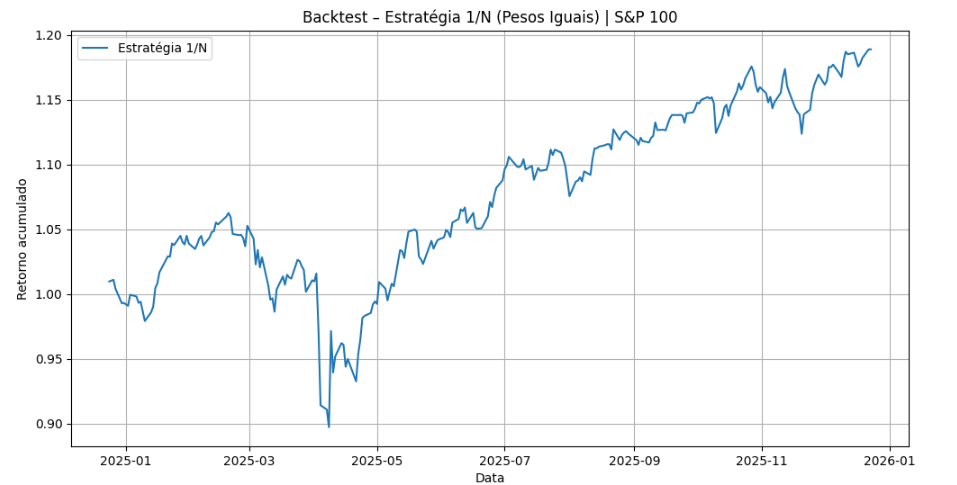
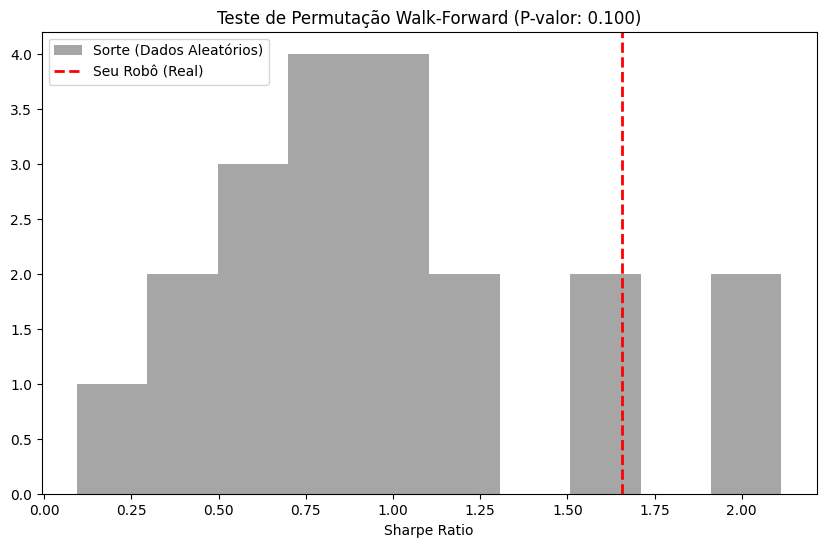
Add: fixing some text and structure issues

diff --git a/content/01-finquant/2025-anterior/datathon-4.md b/content/01-finquant/2025-anterior/datathon-4.md
@@ -1,0 +1,99 @@
+---
+title: Previsibilidade do Prêmio de Risco em Criptomoedas com Indicadores Técnicos
+tags:
+  - nivel/avancado
+  - trilha/finquant
+---
+_**Autores:** Guilherme Vinicius Afonso Dias de Freitas · Gustavo Yamachi · Matias Lima_
+
+_**Orientador:** Leandro dos Santos Maciel_
+
+<div style="text-align: center;">
+
+  <img src="Pasted image 20260322094834.png" width="100">
+
+</div>
+
+# 1. Overview
+
+
+### **Objetivo:**
+
+- Avaliar a previsibilidade do **prêmio pelo risco de criptomoedas** utilizando indicadores técnicos e relacionar essa previsibilidade com os **níveis de sentimento de mercado**.
+    
+
+---
+
+### **Questões de pesquisa:**
+
+- Indicadores técnicos têm capacidade de prever o prêmio pelo risco de criptomoedas?
+    
+- O sentimento de mercado influencia na previsibilidade do prêmio de risco?
+    
+- Índices de sentimento mais robustos capturam melhor essa potencial relação preditiva?
+    
+
+### **Metodologia:**
+
+- Dados do **Bitcoin** e construção de **regressões bi-variadas** da literatura de _equity risk premium_;
+    
+- **Indicadores técnicos** de médias móveis, momentum e volume como regressores;
+    
+- Construção de **índice de sentimento** com **PCA** e raspagem de dados (_web scraping_);
+    
+- Desmembramento da capacidade preditiva de acordo com níveis de sentimento.
+    
+
+### **Inovação:**
+
+- Mensuração da previsibilidade do prêmio pelo risco em criptos com indicadores técnicos;
+    
+- Criação de um novo índice de sentimento para criptomoedas — **SenticCrypto**;
+    
+- Qualificação da qualidade das previsões para distintos níveis de sentimento.
+    
+
+---
+
+# 2. Fundamentação teórica
+
+O  Prêmio  pelo  Risco  de  um  ativo  é  o  seu retorno esperado ajustado ao risco (em excesso à taxa livre de risco). Previsão mais acurada do prêmio pelo risco é importante para:
+
+- Precificação de ativos/derivativos; Alocações mais eficientes de portfólios;
+
+- Avaliação de performance da gestão em mercados financeiros.
+
+- A  literatura  apresenta  modelos  de  regressão com Indicadores técnicos e variáveis fundamentais (WELCH & GOYAL, 2008) para previsão do prêmio pelo risco.
+
+<div align="center">
+<svg width="500" height="300" viewBox="0 0 500 300" xmlns="http://www.w3.org/2000/svg">
+  
+  <style>
+    .title { font-family: sans-serif; font-size: 24px; font-style: italic; fill: currentColor; }
+    .list { font-family: sans-serif; font-size: 16px; font-style: italic; fill: currentColor; }
+    .label { font-family: sans-serif; font-size: 14px; fill: currentColor; }
+    .line { stroke: currentColor; stroke-width: 2; fill: none; }
+    .box { fill: transparent; stroke: currentColor; stroke-width: 2; }
+  </style>
+
+  <rect x="150" y="20" width="200" height="50" class="box" />
+  <text x="250" y="55" text-anchor="middle" class="title">Risk premium</text>
+
+  <path d="M250 70 L160 90 M250 70 L340 90" class="line" />
+
+  <rect x="50" y="90" width="180" height="150" class="box" />
+  <text x="70" y="130" class="list">Médias móveis</text>
+  <text x="70" y="170" class="list">Momentum</text>
+  <text x="70" y="210" class="list">Volatilidade</text>
+  <text x="140" y="265" text-anchor="middle" class="label">Ind. Técnicos</text>
+
+  <rect x="270" y="90" width="180" height="150" class="box" />
+  <text x="290" y="120" class="list">Dividend yield</text>
+  <text x="290" y="155" class="list">P/E ratio</text>
+  <text x="290" y="190" class="list">Inflação Taxas</text>
+  <text x="290" y="225" class="list">de juros</text>
+  <text x="360" y="265" text-anchor="middle" class="label">Ind. Fundamentalistas</text>
+
+</svg>
+</div>
+

diff --git a/content/01-finquant/2026-s1/estrategia-argos.md b/content/01-finquant/2026-s1/estrategia-argos.md
@@ -4,51 +4,44 @@ tags:
   - nivel/avancado
   - trilha/finquant
 ---
-_**Autores**: Lorenzo Cavalcante, Gabriel Navarro, Rodrigo Catto Menin_ 
+_**Autores**: Lorenzo Cavalcante · Gabriel Navarro · Rodrigo Catto Menin_ 
 
-_**Repositório**: [link](https://github.com/Quant-IA-2025/main)
-
-1. **Design Robô A.R.G.O.S.**
-
-                                 A.R.G.O.S.
+_**Repositório**: [link](https://github.com/Quant-IA-2025/main)_
+# A.R.G.O.S
 
 ![[robo-argos.jpg| center | 151]]
+## Explicação do Nome: 
 
->[!info]
->**Figura 1**: Logo-argos.jpg
+A.R.G.O.S. é um acrônimo para **Algoritmo de Reconhecimento Gráfico de Otimização de Sinais.** O nome é uma referência direta a **Argos Panoptes**, o gigante primordial da mitologia grega conhecido como "aquele que tudo vê", um ser com cem olhos que lhe permitia uma vigilância constante. Esta alegoria captura a essência da nossa estratégia. **O Reconhecimento Gráfico** refere-se à forma como reinventamos a análise técnica, permitindo que nossa abordagem de transfer learning “veja o mercado com seus cem olhos” ao analisar imagens gráficas (GAFs) dos preços, extraindo features aprendidas por backbones visuais pré-treinados e detectando padrões invisíveis à análise estatística convencional. A **Otimização de Sinais** descreve como essa “visão”, isto é, as representações extraídas via transfer learning, é tratada como um sinal, subsequentemente otimizado e ponderado contra o equilíbrio de mercado pelo modelo Black–Litterman para compor a alocação final. 
+## Explicação da Lógica da Estratégia:
 
-2. Nome do Robô 
+A lógica do A.R.G.O.S. é uma fusão híbrida de aplicações inovadoras de deep learning e metódos clássicos robustos de teoria de portfólio. Primeiro, o robô "vê"o mercado transformando os dados de preços de 1 trimestre de cada ação em uma imagem de 2 canais (GASF/GADF), então, uma Rede Neural Convolucional (CNN), usando Transfer Learning, analisa essa imagem e a classifica imagem de acordo com a possibilidade do retorno futuros estar entre certos intervalos pré-definidos e fixos. Essa previsão não é um sinal direto de "compra", mas sim uma "visão"subjetiva. Em seguida, essa "visão"(o retorno esperado Q) e, crucialmente, a "confiança"da CNN nessa visão (Ω) são inseridas no modelo Black-Litterman. O modelo Black-Litterman combina otimamente a visão da nossa IA com o "equilíbrio"do mercado (o retorno neutro Π) e também a matriz de covariância (Σ) resolvendo o clássico problema de instabilidade dos modelos de otimização. O resultado é um portfólio robusto que pondera a previsão da IA pela sua própria confiança, gerando uma alocação de ativos confiável de forma inovadora, tal inovação evita efeitos de crowding no mercado 
 
+## Classe de Ativos:
 
-                                 A.R.G.O.S. 
+Ativos de Renda Variável (Ações) 
 
-3. Explicação do Nome: A.R.G.O.S. é um acrônimo para **Algoritmo de Reconhecimento Gráfico de Otimização de Sinais.** O nome é uma referência direta a **Argos Panoptes**, o gigante primordial da mitologia grega conhecido como "aquele que tudo vê"[2, 3], um ser com cem olhos que lhe permitia uma vigilância constante.[2, 3] Esta alegoria captura a essência da nossa estratégia. **O Reconhecimento Gráfico** refere-se à forma como reinventamos a análise técnica, permitindo que nossa abordagem de transfer learning “veja o mercado com seus cem olhos” ao analisar imagens gráficas (GAFs) dos preços, extraindo features aprendidas por backbones visuais pré-treinados e detectando padrões invisíveis à análise estatística convencional. A **Otimização de Sinais** descreve como essa “visão”, isto é, as representações extraídas via transfer learning, é tratada como um sinal, subsequentemente otimizado e ponderado contra o equilíbrio de mercado pelo modelo Black–Litterman para compor a alocação final. 
+## Universo de Investimento: 
 
-4. Explicação da Lógica da Estratégia: A lógica do A.R.G.O.S. é uma fusão híbrida de aplicações inovadoras de deep learning e metódos clássicos robustos de teoria de portfólio. Primeiro, o robô "vê"o mercado transformando os dados de preços de 1 trimestre de cada ação em uma imagem de 2 canais (GASF/GADF), então, uma Rede Neural Convolucional (CNN), usando Transfer Learning, analisa essa imagem e a classifica imagem de acordo com a possibilidade do retorno futuros estar entre certos intervalos pré-definidos e fixos. Essa previsão não é um sinal direto de "compra", mas sim uma "visão"subjetiva. Em seguida, essa "visão"(o retorno esperado Q) e, crucialmente, a "confiança"da CNN nessa visão (Ω) são inseridas no modelo Black-Litterman. O modelo Black-Litterman combina otimamente a visão da nossa IA com o "equilíbrio"do mercado (o retorno neutro Π) e também a matriz de covariância (Σ) resolvendo o clássico problema de instabilidade dos modelos de otimização. O resultado é um portfólio robusto que pondera a previsão da IA pela sua própria confiança, gerando uma alocação de ativos confiável de forma inovadora, tal inovação evita efeitos de crowding no mercado 
+S&P100 
 
-5. Classe de Ativos Ativos de Renda Variável (Ações) 
+## Frequência da Estratégia:
 
-6. Universo de Investimento S&P100 
+Trimestral (Rebalanceamento e previsão a cada 63 dias úteis) 
 
-7. Frequência da Estratégia Trimestral (Rebalanceamento e previsão a cada 63 dias úteis) 
+## Benchmark:
 
-8. Benchmark Índice S&P100 (SP100)
+Índice S&P100 (SP100)
 
+##  Tese de Investimento (O Porquê) e Universo de Ativos (Onde): 
 
-# 2. Página Factsheet 
-### 1. Identidade do Robô 
-	• Nome: A.R.G.O.S. 
-	• Slogan: "Vendo padrões além do alcance." 
-#### 2 e 3. Tese de Investimento (O Porquê) e Universo de Ativos (Onde) 
-	*Padrões de mercado complexos são invisíveis à análise estatística tradicional. Ao converter preços em imagens, podemos usar Redes Neurais Convolucionais (CNNs) para "ver"e explorar dinâmicas dos retornos do S&P100, nosso universo de ativos.*
+Padrões de mercado complexos são invisíveis à análise estatística tradicional. Ao converter preços em imagens, podemos usar Redes Neurais Convolucionais (CNNs) para "ver"e explorar dinâmicas dos retornos do S&P100, nosso universo de ativos.
 
-#### 4. Fluxograma da Lógica (O Como)
+## Fluxograma da Lógica (O Como):
+
 ![[fluxograma-argos.png]]
 
->[!info]
->**Figura 2:** Fluxograma da lógica
-
-# 3. Desenvolvimento do Trabalho
+# Desenvolvimento do Trabalho
 ### A) Ideia de Investimento 
 Nossa ideia foi, em suma, combinar visão computacional com teoria de portfólios. Para tal, fizemos com que uma CNN pre-treináda via transfer learning extraisse padrões das imagens GAF e produzisse visões de mercado (Q); Além disso, fizemos com que o Black–Litterman transformasse essas visões em alocações robustas e bem calibradas ao risco. Intuitivamente, a CNN gera o alpha ao "ver"padrões nas imagens GAF para gerar "visões"de mercado (Q). Enquanto o Black-Litterman constrói o portfólio, usando a teoria de portfólio para alocação robusta e gerenciamento de risco. 
 
@@ -60,12 +53,16 @@ Essa arquitetura resolve os dois problemas: a CNN fornece o alpha e o BL fornece
 
 ### B) Regra de Investimento 
 A estratégia é sistematizada em um pipeline de cinco módulos, executado trimestralmente (horizonte de 63 dias). 
+
 1. **Codificação em Imagem** 
 	Para cada ativo do S&P100, em cada data de rebalanceamento $(τ ),$ o script analisa a janela anterior de 63 dias (w = 63). O processo de transformação converte esta série temporal em uma imagem de 2 canais (GAF) da seguinte forma: 
+	
 	1. **Normalização e Coordenadas Polares:** A série temporal é primeiro normalizada (para valores entre -1 e 1). Em seguida, ela é representada em um sistema de coordenadas polares. O valor de cada ponto $i$ na série $(x˜i)$ é codificado como o cosseno de um ângulo $(ϕi = arccos(x˜i))$, e o carimbo de tempo ti é codificado como o raio. Esta representação preserva as relações temporais absolutas. 
+
 	2. **Cálculo das Matrizes Gramian:** Dai, o algoritmo explora a correlação temporal entre cada ponto i e cada ponto j da série, gerando duas matrizes (imagens): 
 		• **Canal 1: GASF (Gramian Angular Summation Field):** Esta é uma matriz onde cada elemento $(i, j)$ representa a correlação temporal através da soma trigonométrica. Ela é calculada como o cosseno da soma dos ângulos: GASFi,j = $cos(ϕi +ϕj )$. A matriz resultante captura a superposição de direções ao longo do tempo. 
 		• **Canal 2: GADF (Gramian Angular Difference Field):** De forma complementar, esta matriz captura correlações usando a diferença trigonométrica dos ângulos: GADFi,j = $sin(ϕi − ϕj )$. 
+		
 	Estes dois canais (GASF e GADF) são então empilhados para formar uma única imagem de 2 canais. Esta imagem unificada captura diferentes aspectos das correlações temporais e dinâmicas da série de preços, pronta para ser processada pela CNN. Tivemos o cuidado também de checar a ortogonalidade dos dois métodos. 
 	
 2. **Previsão via CNN** 
@@ -77,8 +74,8 @@ A estratégia é sistematizada em um pipeline de cinco módulos, executado trime
 > **Figura 3**: Arquitetura CNN
 
 
-**Figura 3:** Exemplo de uma codificação em imagem.
-	e realizamos um ***fine-tuning*** nela para a tarefa específica de classificar nossas imagens **GAF**. Esta abordagem é mais rápida e captura features visuais complexas de forma mais eficaz. 
+**Figura 3:** 
+Exemplo de uma codificação em imagem. Realizamos um ***fine-tuning*** nela para a tarefa específica de classificar nossas imagens **GAF**. Esta abordagem é mais rápida e captura features visuais complexas de forma mais eficaz. 
 	• **Tarefa:** A CNN *não* prevê um preço. Ela realiza uma classificação multiclasse. 
 	• **Saída:** Um vetor de probabilidade $pˆ$ de 5 dimensões, correspondendo aos 5 *bins* fixos de retorno futuro (63 dias): [<-5%], [-5%, -1%], [-1%, 1%], [1%, 5%], [>=5%]. 
 	• **Métrica de Treino:** A rede é **ajustada (fine-tuned)** usando Categorical Cross-Entropy, otimizando para a precisão da distribuição de probabilidade.
@@ -115,6 +112,7 @@ $$\max_{w} \quad w^{T} \hat{\mu}_{BL,\tau} - \frac{\gamma}{2} w^{T} \Sigma_{\tau
  A pesquisa de Wang e Oates foi a mais importante para nós, pois demonstrou que a codificação de séries temporais em Gramian Angular Fields (GAF) cria representações de imagem que (a) preservam a dependência temporal e (b) podem ser consumidas eficazmente por Redes Neurais Convolucionais para classificação. Isso nos permitiu reformular o problema de previsão de séries temporais como um problema de visão computacional com fundamentos bem robustos. 
  
 ### D) Universo de Dados
+ 
  **• Universo Investível:** Ações do S&P 100. 
  **• Fonte dos Dados:** Yahoo Finance, dados diários. 
  **• Período de Análise:** Dados de 2010-2025, com preços diários das ações do S&P100 no período, separados com proporções 70/30. 
@@ -246,9 +244,11 @@ A estratégia provou não ser apenas um exercício acadêmico; ela foi projetada
 **Design:** Criação da identidade visual do robô (A.R.G.O.S.) e desenvolvimento do acrônimo e (usando ChatGPT). 
 
 ### 3. Limitações ou Erros 
-• Como cada membro estava usando uma IA diferente, acabamos tendo problemas de compatibilidade dos arquivos .py dentro do pipeline, o que teve que ser resolvido manualmente; 
-• O texto gerado por IA é bastante genérico e repetitivo, falhando em transmitir as informações de forma concisa e coesa; 
-• Ao encontrar problemas de ausência de dados, a IA criava dados falsos para suprir sua necessidade, o mesmo ocorreu na pesquisa de artigos, quando nos deparamos com artigos que não existiam. 
 
+• Como cada membro estava usando uma IA diferente, acabamos tendo problemas de compatibilidade dos arquivos .py dentro do pipeline, o que teve que ser resolvido manualmente; 
+
+• O texto gerado por IA é bastante genérico e repetitivo, falhando em transmitir as informações de forma concisa e coesa; 
+
+• Ao encontrar problemas de ausência de dados, a IA criava dados falsos para suprir sua necessidade, o mesmo ocorreu na pesquisa de artigos, quando nos deparamos com artigos que não existiam. 
 ### 4. Reflexão Final 
 A IA generativa não pode e não deve ser utilizada como resolução "caixa-preta"para todos os problemas, todas as vezes que tentamos usá-la desse modo acabamos caindo no erro. No fim, ela não passa de um ajudante bastante prestativo e perspicaz, mas é essencial que a parte crítica e criativa humana esteja em dia para que o uso da IA seja proveitoso.

diff --git a/content/01-finquant/2025-s1/deep-markovian-trader.md b/content/01-finquant/2025-s1/deep-markovian-trader.md
@@ -4,30 +4,31 @@ tags:
   - nivel/avancado
   - trilha/finquant
 ---
-# 0. Introdução
+_**Autores:** Gabriel Navarro · Julia Cerqueira · Lorenzo Cavalcante_
 
+# Deep Markovian Trader
 
-![[deep-markovian-logo.png]]
+![[deep-markovian-logo-removebg-preview.png]]
 
-## 0.1 Explicação do Nome
+## Explicação do Nome
 
 “Deep Markovian Trader” faz referência aos elementos principais da estratégia: “Deep” refere-se ao uso de Deep Learning, “Markovian” à modelagem por cadeias de Markov, e “Trader” à natureza da estratégia, focada em operações de Long & Short.
 
-## 0.2 Explicação Lógica Estratégia
+## Explicação Lógica Estratégia
 
 A estratégia avalia, para cada período e para cada ação do S&P500, a volatilidade condicional das ações, utilizando um modelo inspirado no MSGARCH. Com base nessa métrica, seleciona-se, a cada ciclo, as 50 ações com as menores volatilidades condicionais. Em seguida, um modelo LSTM é treinado, levando em consideração indicadores técnicos, para prever os retornos das ações no próximo período. Tais previsões são ordenadas em ordem decrescente, e com base nessa classificação, as ações são distribuídas em percentis, com a compra das ações no primeiro percentil e a venda das que se encontram no último percentil.
 
-## 0.3 Características
+## Características
 
-|**Campo**|**Valor**|
-|---|---|
-|**Tipo de Estratégia:**|Trade|
-|**Classe de Ativos:**|Ações|
-|**Universo:**|S&P 500|
-|**Média Trades por Mês:**|10|
-|**Holding Period:**|30|
-|**Qual Plataforma Testou a Estratégia:**|Python|
-|**Benchmark Estratégia:**|S&P 500|
+| **Campo**                                | **Valor** |
+| ---------------------------------------- | --------- |
+| **Tipo de Estratégia:**                  | Trade     |
+| **Classe de Ativos:**                    | Ações     |
+| **Universo:**                            | S&P 500   |
+| **Média Trades por Mês:**                | 10        |
+| **Holding Period:**                      | 30        |
+| **Qual Plataforma Testou a Estratégia:** | Python    |
+| **Benchmark Estratégia:**                | S&P 500   |
 
 # 1. Introdução
 

diff --git a/content/index.md b/content/index.md
@@ -15,13 +15,6 @@ Somos a primeira entidade estudantil de programação da FEA-USP, dedicada a **F
 Fundada em 2019, a iniciativa nasceu de alunos que identificaram uma lacuna no ensino tradicional de tecnologia e decidiram agir para transformar esse cenário.
 
 Por meio de capacitação, projetos e eventos com lideranças do setor, proporcionamos aos nossos membros o desenvolvimento de competências técnicas cada vez mais valorizadas no mercado: **Ciência de Dados**, **Inteligência Artificial** e **Finanças Quantitativas**.
-
-•	GitHub: /fea-dev-usp
-
-•	Instagram: @fea.dev
-
-•	Email: [email redacted]
-
 ### O que você encontra neste Hub
 - **Guias e tutoriais práticos** (passo a passo, replicáveis).
 - **Projetos e estudos de caso** em **IA** e **FinQuant**, com código e dados para reprodução.
@@ -81,7 +74,6 @@ Foram dois dias de conteúdo técnico, troca de experiências e acesso direto a 
 - Palestras técnicas  
 - Painéis com gestoras e bancos  
 - Networking com alunos de várias universidades e profissionais do buy-side e sell-side
-
 
 <div id="qc-g1" style="max-width:1000px;margin:1rem auto;">
   <div id="qc-g1-track"

diff --git a/content/01-finquant/index.md b/content/01-finquant/index.md
@@ -3,8 +3,7 @@ title: " FinQuant"
 ---
 
 >[!warning]
-> Se você é membro ou ex-membro da dev e quiser contribuir com material, por favor, entre em contato com algum membro de Tech, Governança ou com os Presidentes. 
-
+> Se você é membro ou ex-membro da dev e quiser contribuir com material, por favor, entre em contato com algum membro de Tech ou de Governança. 
 
 ## O que é a trilha de Finanças Quantitativas (FinQuant)?
 

diff --git a/content/01-finquant/2025-anterior/Formula-black-scholes-precificacao-opcoes.md b/content/01-finquant/2025-anterior/Formula-black-scholes-precificacao-opcoes.md
@@ -5,7 +5,7 @@ tags:
   - trilha/finquant
 ---
 _**Autor:** Guilherme Freitas_
-# 1. O QUE SÃO OPÇÕES
+# 1. O que são Opções? 
 
 ## 1.1 Definição: 
 

diff --git a/content/02-ia/2026-s1/analise_saude_publica_IA.md b/content/02-ia/2026-s1/analise_saude_publica_IA.md
@@ -6,7 +6,7 @@ tags:
 ---
 _**Autores:** Gustavo Katsuo Tsuitsui, Gabriel Graciano Dias_
 
-_Repositório_: [GitHub - fea-dev-usp/case-IA-grupo-02: Repositório do grupo 2 para o case de IA da capacitação 2025/2. · GitHub](https://github.com/fea-dev-usp/case-IA-grupo-02)
+_Repositório_: [link](https://github.com/fea-dev-usp/case-IA-grupo-02)
 
 # 1.  Introdução e Contexto
 

diff --git a/content/02-ia/index.md b/content/02-ia/index.md
@@ -2,7 +2,7 @@
 title: IA
 ---
 >[!warning]
-> Se você é membro ou ex-membro da dev e quiser contribuir com material, por favor, entre em contato com algum membro de Tech, Governança ou com os Presidentes. 
+> Se você é membro ou ex-membro da dev e quiser contribuir com material, por favor, entre em contato com algum membro de Tech ou de Governança. 
 
 ## O que é a trilha de Inteligência Artificial (IA)?
 